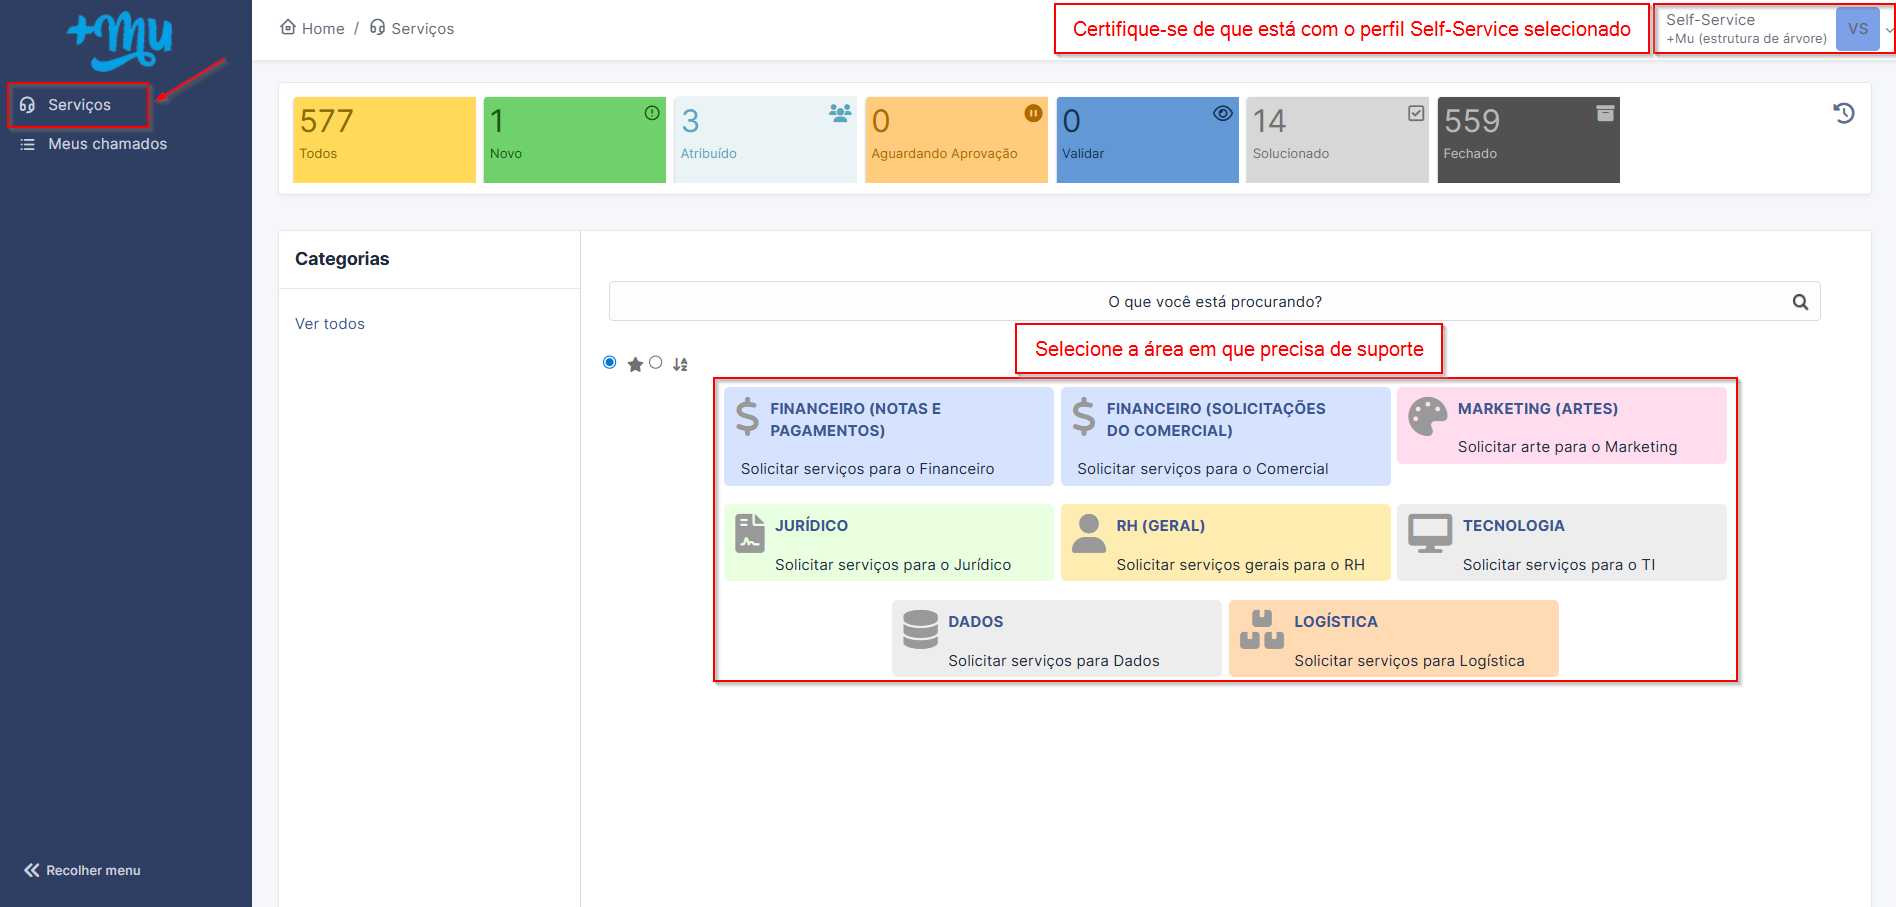
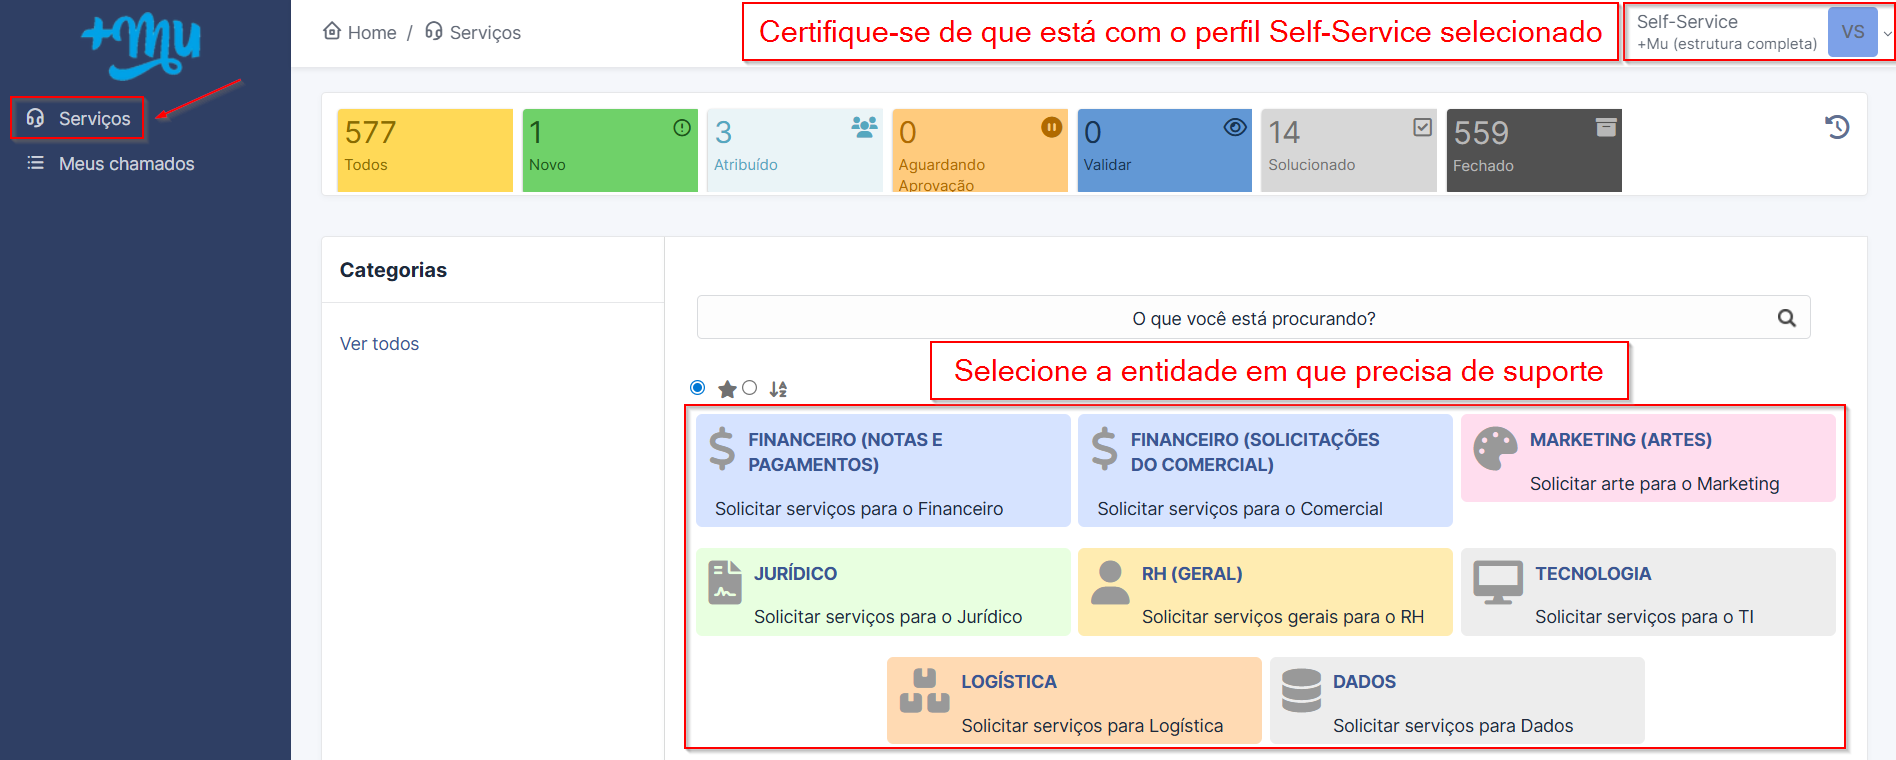
glpi

diff --git a/docs/ti/suporte/acompanhar_chamado_glpi.md b/docs/ti/suporte/acompanhar_chamado_glpi.md
@@ -1,0 +1,13 @@
+# Como acompanhar chamados no GLPI
+
+1. Após fazer login no [GLPI](https://suporte.maismu.com.br/marketplace/formcreator/front/wizard.php), clique em **Meus chamados** no menu lateral.
+
+Aqui você terá visibilidade de todos os chamados que abriu, além daqueles em que outras pessoas o colocaram em cópia.
+
+Para otimizar a consulta, é possível incluir filtros de **não solucionados** e **entidade**. Esses são apenas alguns exemplos — você pode adicionar quantos filtros quiser, como ID do chamado, título, data, entre outros.
+
+![glpi3](/assets/images/chamado_glpi_3.png#center)
+
+!!! note info "Power BI"
+
+    Também é possível acompanhar os chamados através do Power Bi: [Acompanhamento GLPI](https://app.fabric.microsoft.com/groups/me/apps/592c4e75-4a59-4fcb-a076-9d3d9ef512ca/reports/c96db1b4-5fb0-44a1-bb99-64a0b46a6a7b/2eaeab190870006abb0d?ctid=41aa748d-3157-4f97-b8eb-c70d380a7475&experience=fabric-developer).

diff --git a/docs/ti/suporte/criar_chamados_glpi.md b/docs/ti/suporte/criar_chamados_glpi.md
@@ -1,6 +1,6 @@
 # Como abrir chamado no GLPI
 
-1. Após fazer login no [GLPI](https://suporte.maismu.com.br/marketplace/formcreator/front/wizard.php), clique em **Serviços** no menu lateral e escolha a área em que necessita de suporte.
+1. Após fazer login no [GLPI](https://suporte.maismu.com.br/marketplace/formcreator/front/wizard.php), clique em **Serviços** no menu lateral e escolha a entidade em que necessita de suporte.
 
 !!! note warning "Importante."
 
